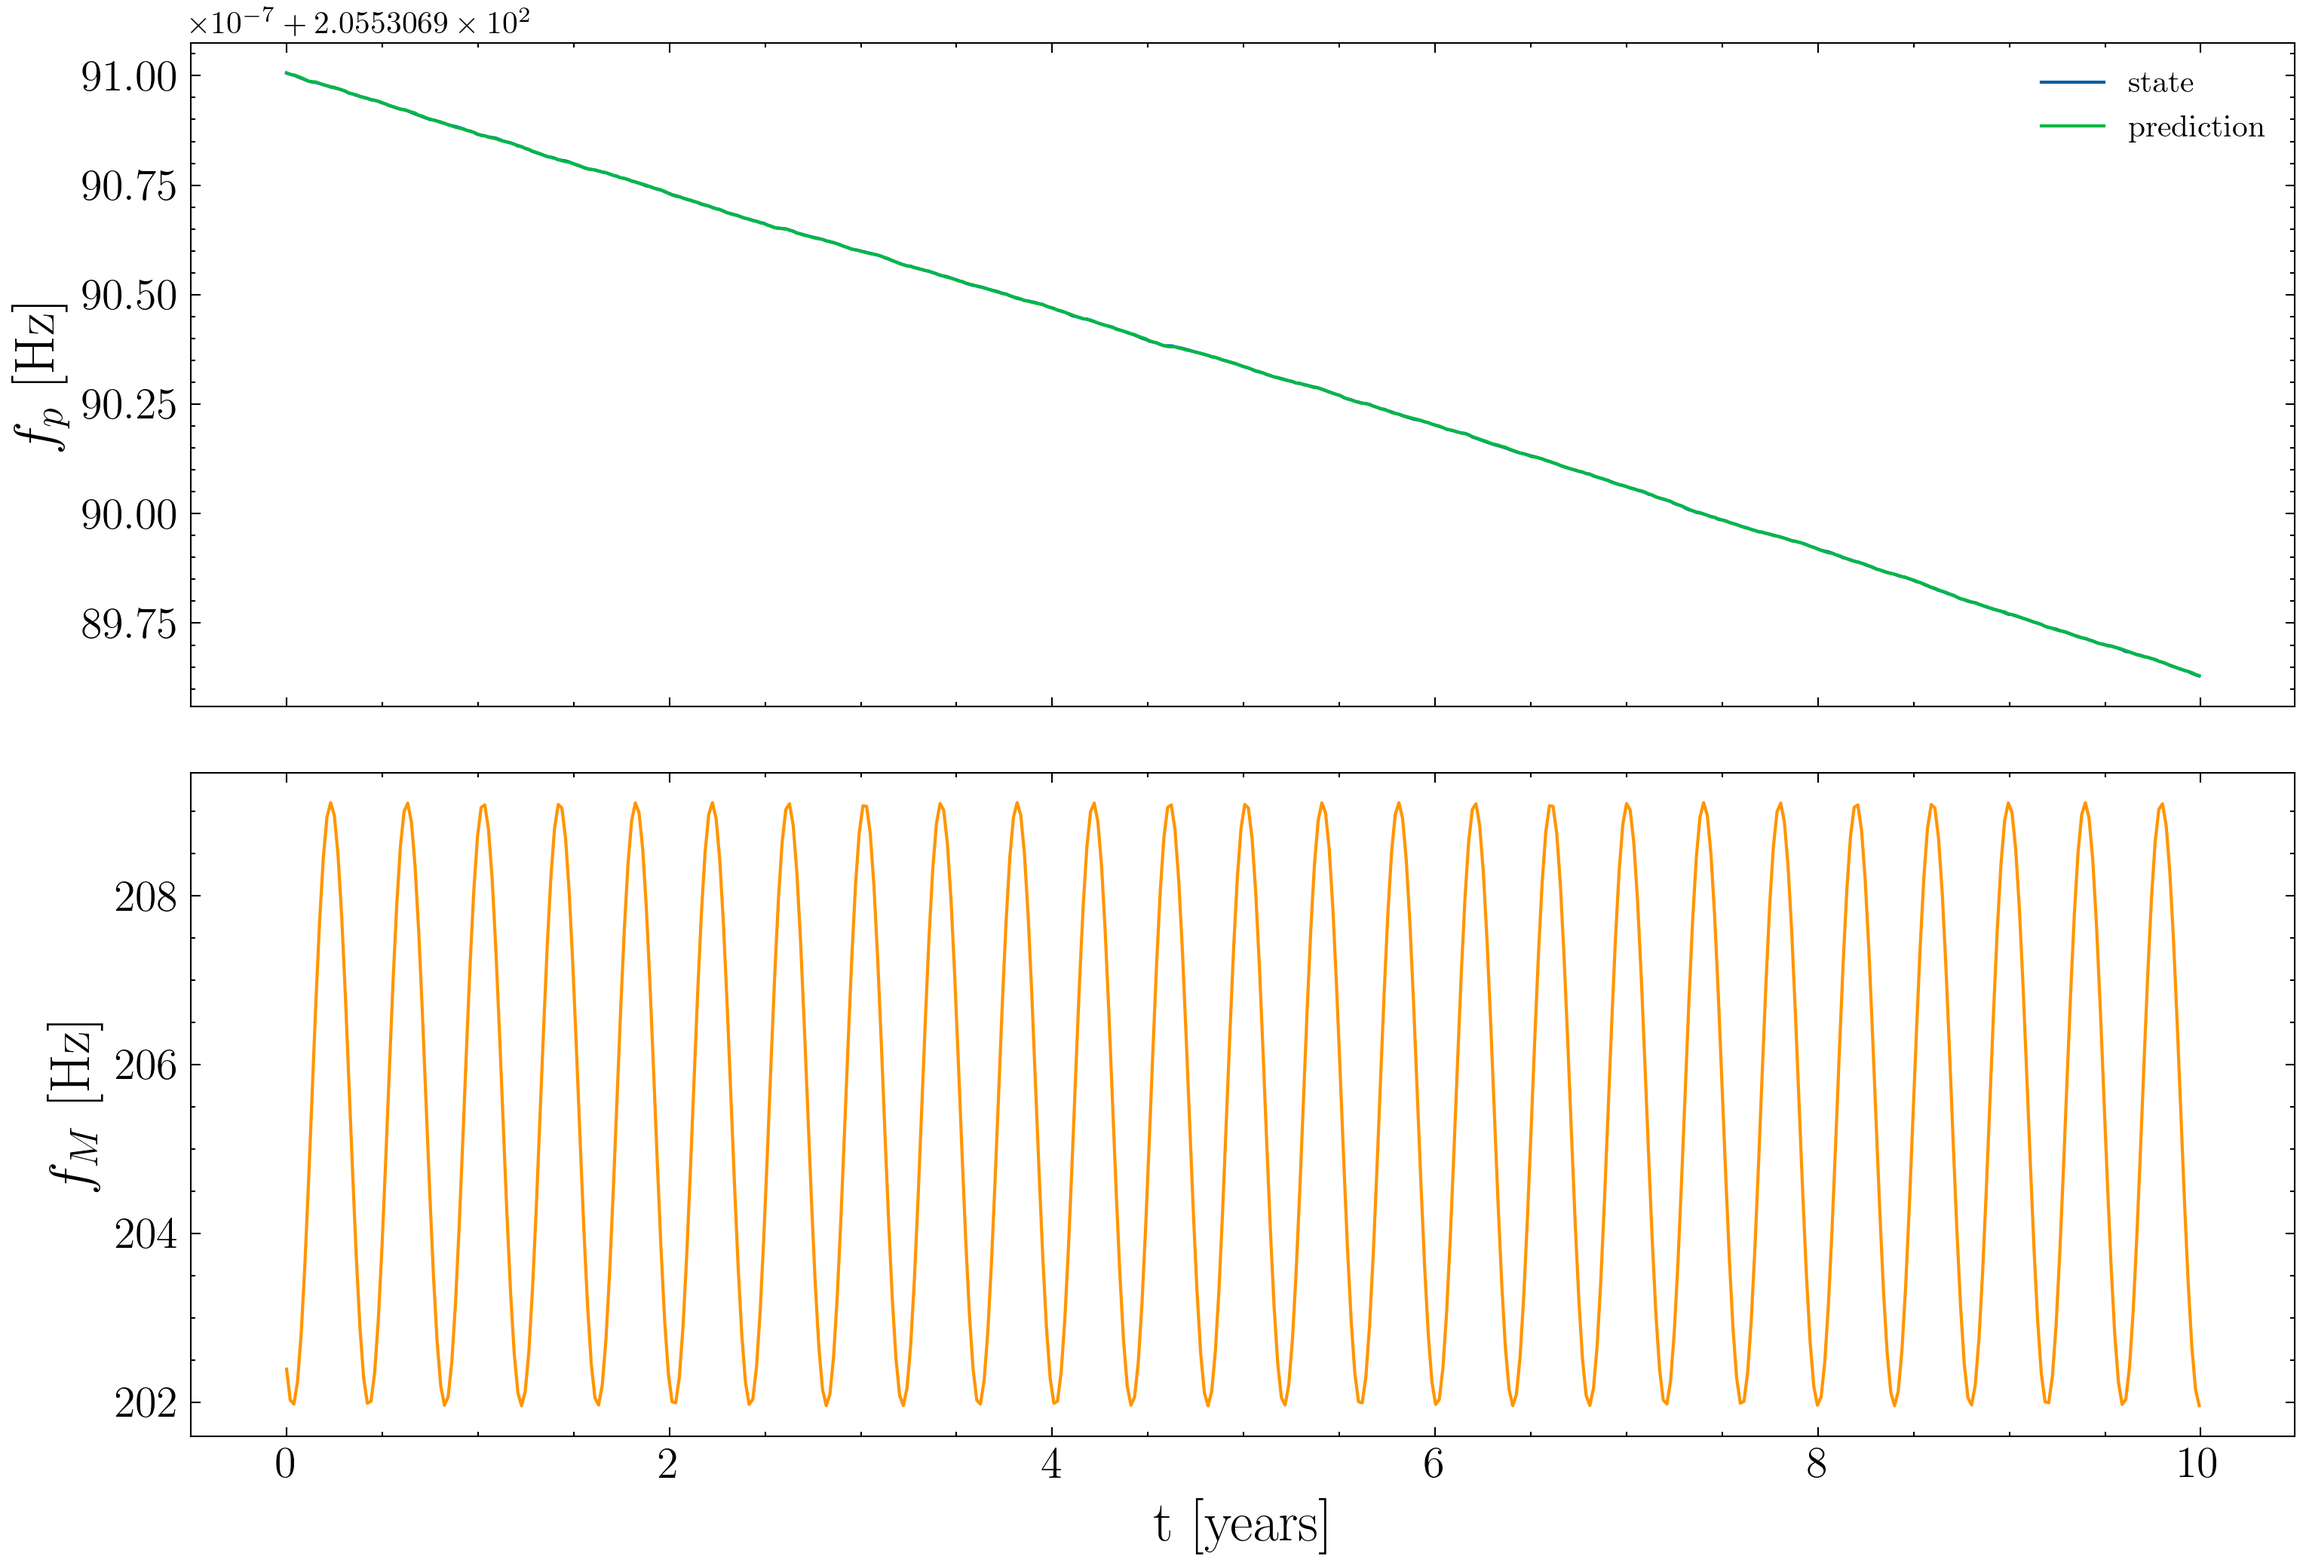
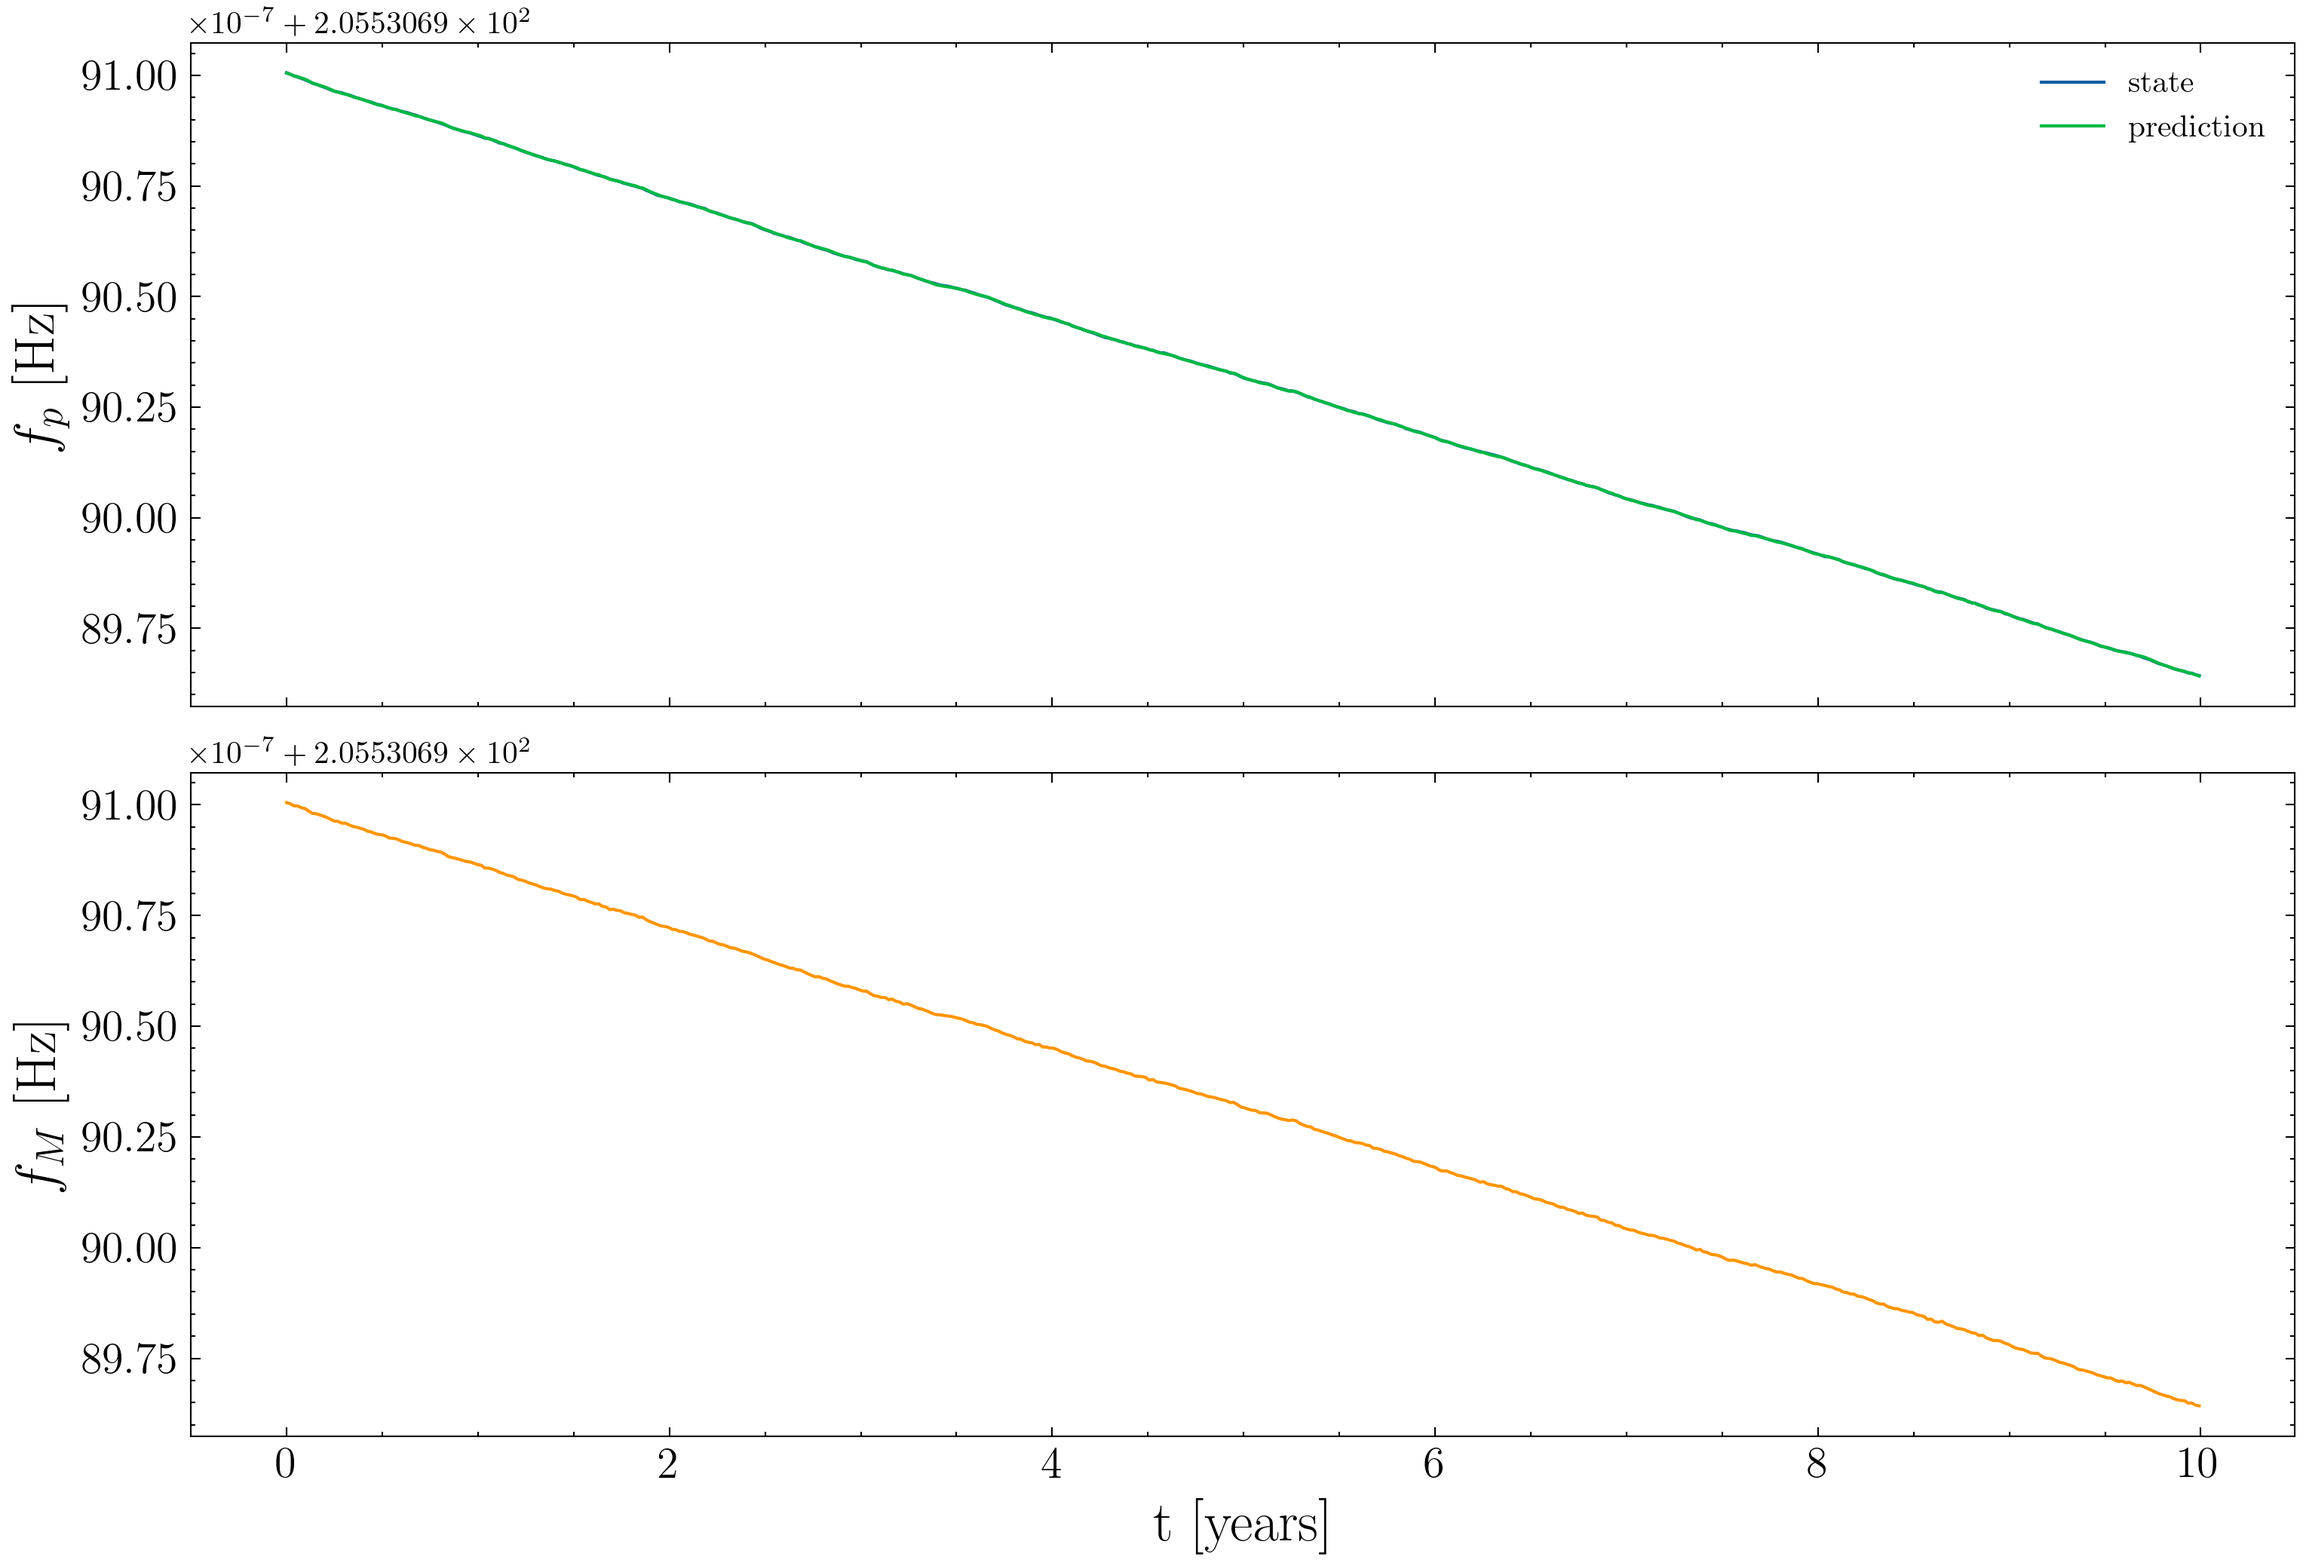
correct earth terms again

diff --git a/py_src/gravitational_waves.py b/py_src/gravitational_waves.py
@@ -83,10 +83,10 @@ def gw_prefactor_optimised_trig(delta,alpha,psi,q,q_products,h,iota,omega,d,t,ph
         little_b = omega*dot_product*d
         little_a = little_a.reshape((522,1))
         little_b = little_b.reshape((1,len(dot_product)))
-        blob = little_a#+little_b
+        blob = little_a+little_b
     
 
-        trig_block = cos(little_a).reshape((522,1)) - cos(blob)
+        trig_block = cos(little_a).reshape((522,1)) #- cos(blob)
         GW_factor = 1 - 0.50*(hbar/dot_product)*trig_block
 
         #h_ij q^i q^j evaluated at Earth
